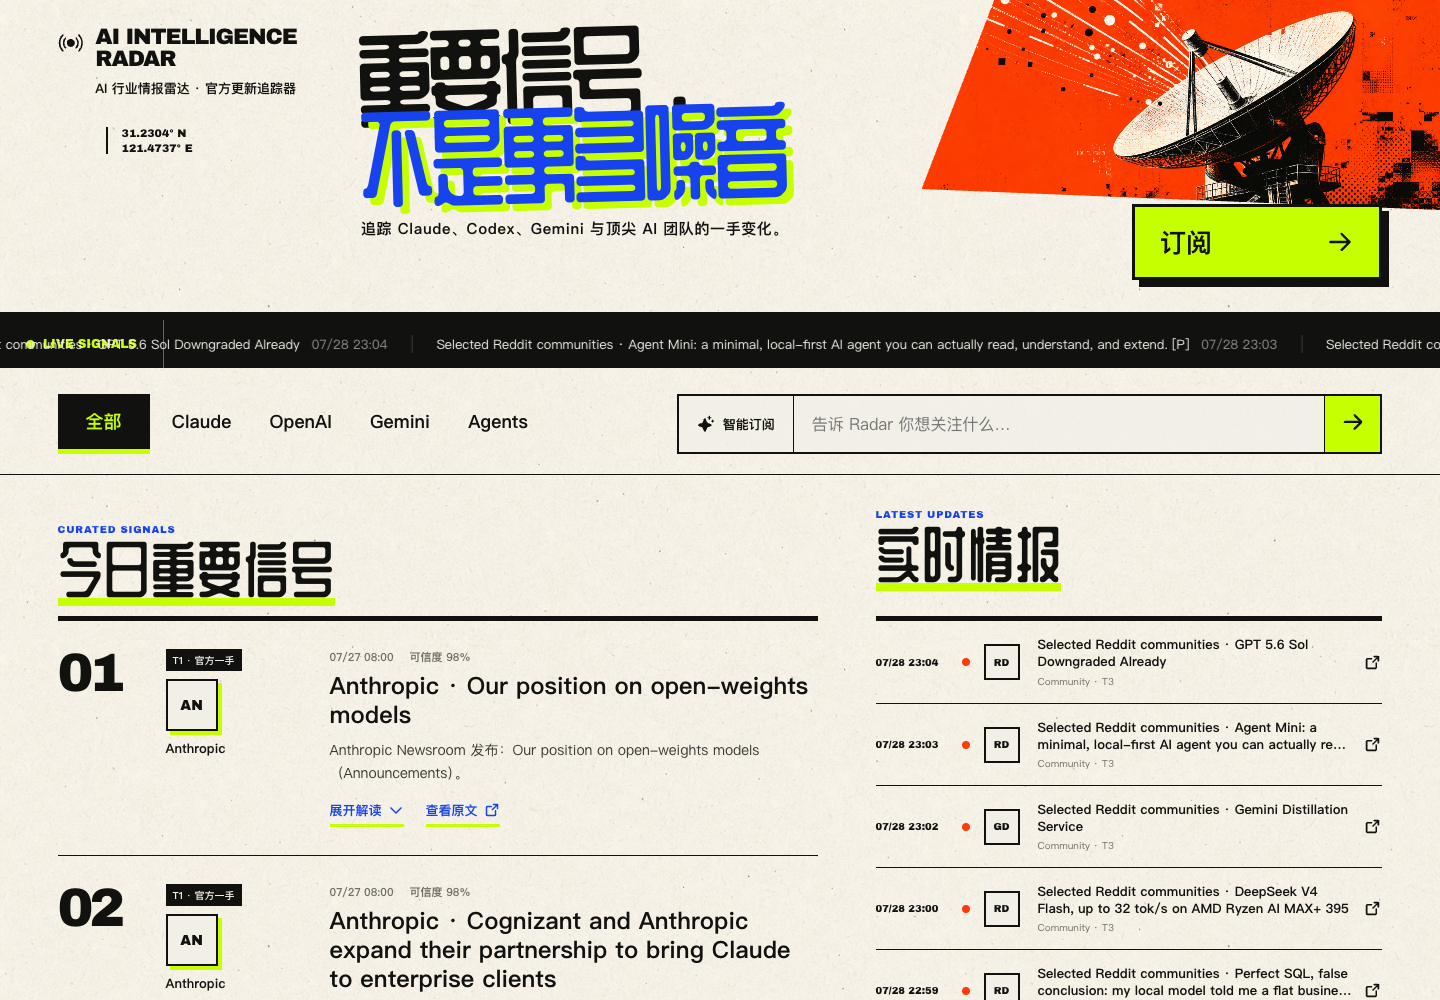
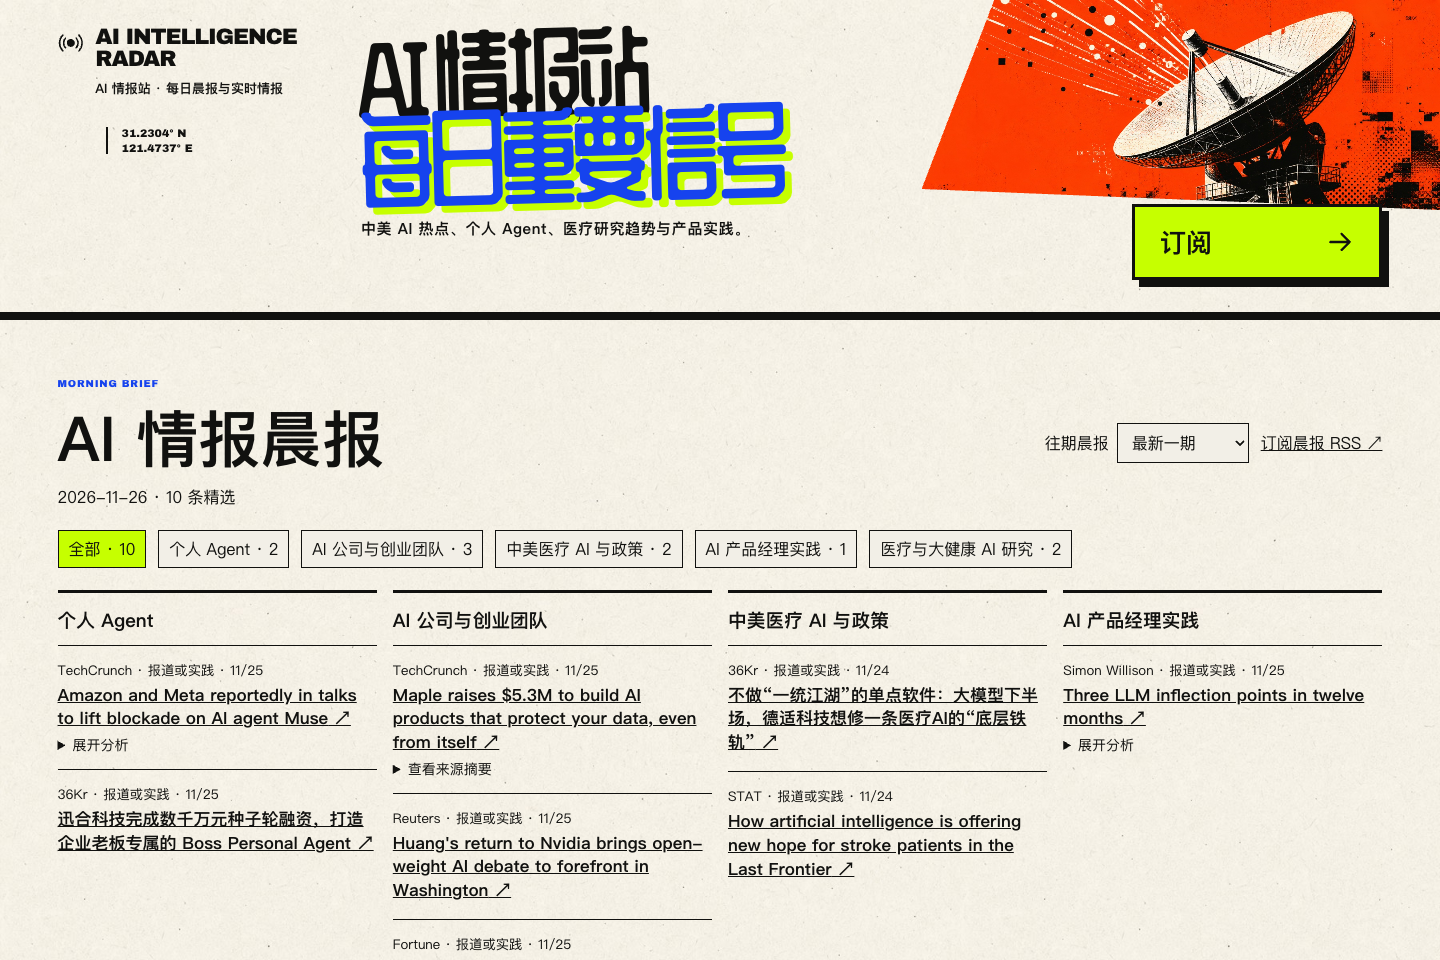
Refresh bilingual README and dashboard screenshots

diff --git a/README_EN.md b/README_EN.md
@@ -9,12 +9,12 @@
 <h1 align="center">🛰 AI Intelligence Radar</h1>
 
 <p align="center">
-  <strong>Turn first-hand AI updates into traceable insights and a knowledge base that compounds over time.</strong>
+  <strong>AI intelligence across China and the US · daily briefings, hourly headlines, company watchlists, and healthcare research trends</strong>
 </p>
 
 <p align="center">
   <a href="https://github.com/jj1292/ai-intelligence-radar/actions/workflows/test.yml"><img src="https://img.shields.io/github/actions/workflow/status/jj1292/ai-intelligence-radar/test.yml?branch=main&style=for-the-badge&logo=githubactions&logoColor=white&label=tests&color=22C55E" alt="Tests" /></a>
-  <img src="https://img.shields.io/badge/version-v0.9.0-7C3AED?style=for-the-badge" alt="Version v0.9.0" />
+  <a href="https://jj1292.github.io/AI-Intelligence-Radar/"><img src="https://img.shields.io/badge/AI%20Radar-Live-7C3AED?style=for-the-badge" alt="Live website" /></a>
   <img src="https://img.shields.io/badge/Python-3.10%2B-2563EB?style=for-the-badge&logo=python&logoColor=white" alt="Python 3.10+" />
   <img src="https://img.shields.io/badge/license-MIT-06B6D4?style=for-the-badge" alt="MIT License" />
 </p>
@@ -22,7 +22,8 @@
 <p align="center">
   <img src="https://img.shields.io/badge/OpenAI-Codex-412991?style=flat-square&logo=openai&logoColor=white" alt="OpenAI Codex" />
   <img src="https://img.shields.io/badge/Anthropic-Claude-D97706?style=flat-square&logo=anthropic&logoColor=white" alt="Anthropic Claude" />
-  <img src="https://img.shields.io/badge/Google-Gemini-4285F4?style=flat-square&logo=googlegemini&logoColor=white" alt="Google Gemini" />
+  <img src="https://img.shields.io/badge/MiniMax-H3-4285F4?style=flat-square" alt="MiniMax H3" />
+  <img src="https://img.shields.io/badge/Z.ai-GLM-7C3AED?style=flat-square" alt="Z.ai GLM" />
   <img src="https://img.shields.io/badge/X-Signals-111827?style=flat-square&logo=x&logoColor=white" alt="X Signals" />
   <img src="https://img.shields.io/badge/Reddit-Community-FF4500?style=flat-square&logo=reddit&logoColor=white" alt="Reddit Community" />
   <img src="https://img.shields.io/badge/Markdown-Knowledge-0F766E?style=flat-square&logo=markdown&logoColor=white" alt="Markdown Knowledge Base" />
@@ -39,29 +40,32 @@
 
 <p align="center">
   <a href="https://jj1292.github.io/AI-Intelligence-Radar/">
-    <img src="assets/product-homepage.png" width="100%" alt="AI Intelligence Radar public website homepage" />
+    <img src="assets/product-homepage.png" width="100%" alt="AI Intelligence Radar homepage and daily briefing" />
   </a>
 </p>
 
 <p align="center">
-  <a href="https://jj1292.github.io/AI-Intelligence-Radar/"><strong>🌐 Explore the public website</strong></a>
+  <a href="https://jj1292.github.io/AI-Intelligence-Radar/"><strong>🌐 Open the website</strong></a> ·
+  <a href="https://jj1292.github.io/AI-Intelligence-Radar/#morning-edition">Daily briefing</a> ·
+  <a href="https://jj1292.github.io/AI-Intelligence-Radar/morning-edition.xml">Briefing RSS</a>
 </p>
 
 ---
 
 ## ✨ Why This Project
 
-There is no shortage of daily information, but only a small number of signals can genuinely improve how we understand the AI industry. This project is not about collecting the most content. It builds a reliable path from information to judgment.
+Read a source-linked AI briefing each morning, then check hourly headlines from China and the US. Important signals link to related headlines and briefing entries, with original sources available for verification.
 
-| 🛰 First-hand Signals | 🧠 Insight Cards | 📈 Trend Radar |
-| --- | --- | --- |
-| Track official announcements, repositories, first-hand X accounts, and Reddit communities | Read the source, extract its thesis and mechanisms, analyze the change, and produce a decision-ready takeaway | A signal becomes a trend candidate only after it appears repeatedly across independent sources |
+| Section | Coverage |
+| --- | --- |
+| [Daily briefing](https://jj1292.github.io/AI-Intelligence-Radar/#morning-edition) | Up to 10 items per edition across personal agents, AI companies, healthcare AI and policy, product practice, and research themes. Past issues are available by date. |
+| [Important signals and hourly headlines](https://jj1292.github.io/AI-Intelligence-Radar/#important-signals) | Hourly collection from public sources. Signal cards link to relevant publishers and briefing entries. On desktop, headlines have an independently scrolling sidebar. |
+| [Watchlists](https://jj1292.github.io/AI-Intelligence-Radar/#watchlists) | Models, products, funding, and earnings from MiniMax, Z.ai, OpenAI, and Anthropic, alongside dedicated personal-agent and research-agent lists. |
+| [Healthcare AI research trends](https://jj1292.github.io/AI-Intelligence-Radar/#research-trends) | Themes from a 14-day search sample, with separate counts for selected journal publications and preprints, plus representative studies. |
 
-> [!TIP]
-> **The goal is not to read the entire internet for you. It is to preserve a small set of verifiable insights that remain useful over time.**
-
-> [!NOTE]
-> **v0.7 turns sources into one editable subscription list: maintainers add or remove sources on GitHub, the Agent republishes automatically, and subscribers only read public RSS/JSON feeds.**
+<a href="https://jj1292.github.io/AI-Intelligence-Radar/#live-intelligence">
+  <img src="assets/live-intelligence.png" width="100%" alt="Important signals and the independently scrolling hourly headlines sidebar" />
+</a>
 
 ## 🌈 Current Capabilities
 
@@ -106,40 +110,32 @@ There is no shortage of daily information, but only a small number of signals ca
 | 🔵 **T2** | Official and core-team X accounts | First-hand context and distribution signals | ![publisher](https://img.shields.io/badge/PUBLISHER-F59E0B?style=flat-square) |
 | 🟠 **T3** | Reddit AI communities | Problems, use cases, sentiment, and weak signals | ![ready](https://img.shields.io/badge/PUBLIC_RSS-22C55E?style=flat-square) |
 
-The default list contains the **official Anthropic Newsroom, 3 GitHub Release repositories, 3 Reddit communities, and 5 first-hand X accounts**. The official blog, GitHub, and Reddit run without authentication; X is enabled only after the maintainer configures a backend account. Day-to-day changes belong in [`config/subscriptions.json`](config/subscriptions.json); the advanced registry remains in [`config/sources.json`](config/sources.json).
+The website briefing draws on media RSS, public search, and official publications. Research samples come from Europe PMC. Official blogs, GitHub, and Reddit supply the rolling feeds. Account-based X collection requires maintainer configuration. Edit the [briefing queries](config/morning-edition.json), [watchlists](config/watchlists.json), or [rolling sources](config/subscriptions.json) separately.
 
 ## 🔄 How It Works
 
 ```mermaid
 flowchart LR
-    A["💻 GitHub Releases"] --> E["⚙ Agent Loop"]
-    B["🏢 Official Releases"] --> E
-    C["𝕏 / Reddit"] --> E
-    E --> F["⏱ 48h + Deduplicate"]
-    F --> G["🧭 Evidence Gate"]
-    G --> H["🗂 Intelligence Cards"]
-    G --> I["📡 Trend Radar"]
-    G --> J["📰 AI Pulse Brief"]
-    E --> T["🧾 JSONL Trace"]
-
-    classDef source fill:#EEF2FF,stroke:#6366F1,color:#312E81,stroke-width:2px;
-    classDef process fill:#ECFEFF,stroke:#06B6D4,color:#164E63,stroke-width:2px;
-    classDef insight fill:#F5F3FF,stroke:#8B5CF6,color:#4C1D95,stroke-width:2px;
-    classDef output fill:#FAE8FF,stroke:#C026D3,color:#701A75,stroke-width:2px;
-    class A,B,C source;
-    class E,F process;
-    class G insight;
-    class H,I,J,T output;
+    N["Media RSS, public search, official publications"] --> H["Hourly headline collection"]
+    H --> W["Watchlists and live headlines"]
+    N --> M["Daily briefing"]
+    P["Europe PMC"] --> R["14-day research themes"]
+    R --> M
+    H --> S["Important signals"]
+    M --> S
+    M --> B["Briefing archive and RSS"]
+    L["Official blogs, GitHub, Reddit, and optional X"] --> F["Rolling RSS / JSON"]
 ```
 
-**AI Pulse is a daily output generated by Radar Agent, not a second product.** Dify remains available for visual orchestration and framework comparison; see the [`optional Dify adapter`](docs/adapters/dify.md).
+**AI Pulse is the local daily report generated by Radar Agent.** Dify remains available for visual orchestration and framework comparison; see the [`optional Dify adapter`](docs/adapters/dify.md).
 
 ## 🔔 Subscribe Directly
 
 Subscribers need no X account and do not need to install or run this project. Add either URL to Feedly, Inoreader, FreshRSS, NetNewsWire, or another feed reader:
 
 - **Public website**: [`https://jj1292.github.io/AI-Intelligence-Radar/`](https://jj1292.github.io/AI-Intelligence-Radar/)
-- **RSS 2.0**: [`https://jj1292.github.io/AI-Intelligence-Radar/feed.xml`](https://jj1292.github.io/AI-Intelligence-Radar/feed.xml)
+- **Briefing RSS**: [Daily selections](https://jj1292.github.io/AI-Intelligence-Radar/morning-edition.xml). The scheduled build starts at 07:17 Taipei time.
+- **Rolling RSS**: [`https://jj1292.github.io/AI-Intelligence-Radar/feed.xml`](https://jj1292.github.io/AI-Intelligence-Radar/feed.xml)
 - **JSON Feed 1.1**: [`https://jj1292.github.io/AI-Intelligence-Radar/feed.json`](https://jj1292.github.io/AI-Intelligence-Radar/feed.json)
 
 ```text
@@ -189,7 +185,7 @@ python3 -m unittest discover -s tests -v
 python3 evaluate_radar.py --strict
 ```
 
-![tests](https://img.shields.io/badge/tests-70%20passed-22C55E?style=for-the-badge&logo=checkmarx&logoColor=white)
+[View automated test results](https://github.com/jj1292/AI-Intelligence-Radar/actions/workflows/test.yml)
 
 Current baseline: **all 3 cases pass with an average score of 2.0/2**. The v0.7 live path, without X credentials, read 55 GitHub/Reddit items, selected 46 for the feed, and completed with zero tool errors.
 
@@ -260,7 +256,8 @@ The specification is defined in [`schemas/intelligence-signal.schema.json`](sche
 | `v0.6` | Public RSS/JSON feeds, scheduled publisher, one authentication for all subscribers | ✅ Done |
 | `v0.7` | Editable subscription list, dynamic publishing, generic RSS/Atom, public Reddit feed | ✅ Done |
 | `v0.8` | Public website, continuous important signals, and the Firecrawl web adapter | ✅ Done |
-| `v0.9` | GitHub Models article analysis and the synthesis-analysis-output contract | 🚧 Current |
+| `v0.9` | Article analysis and structured output | ✅ Done |
+| Current website | Daily briefings, hourly headlines, watchlists, healthcare AI research themes, and scrollable news panel | ✅ Live |
 | `v1.0` | Memory, replay evaluation, periodic reviews, subscriptions, and source-quality scoring | 🌟 Vision |
 
 ## 📚 Documentation
